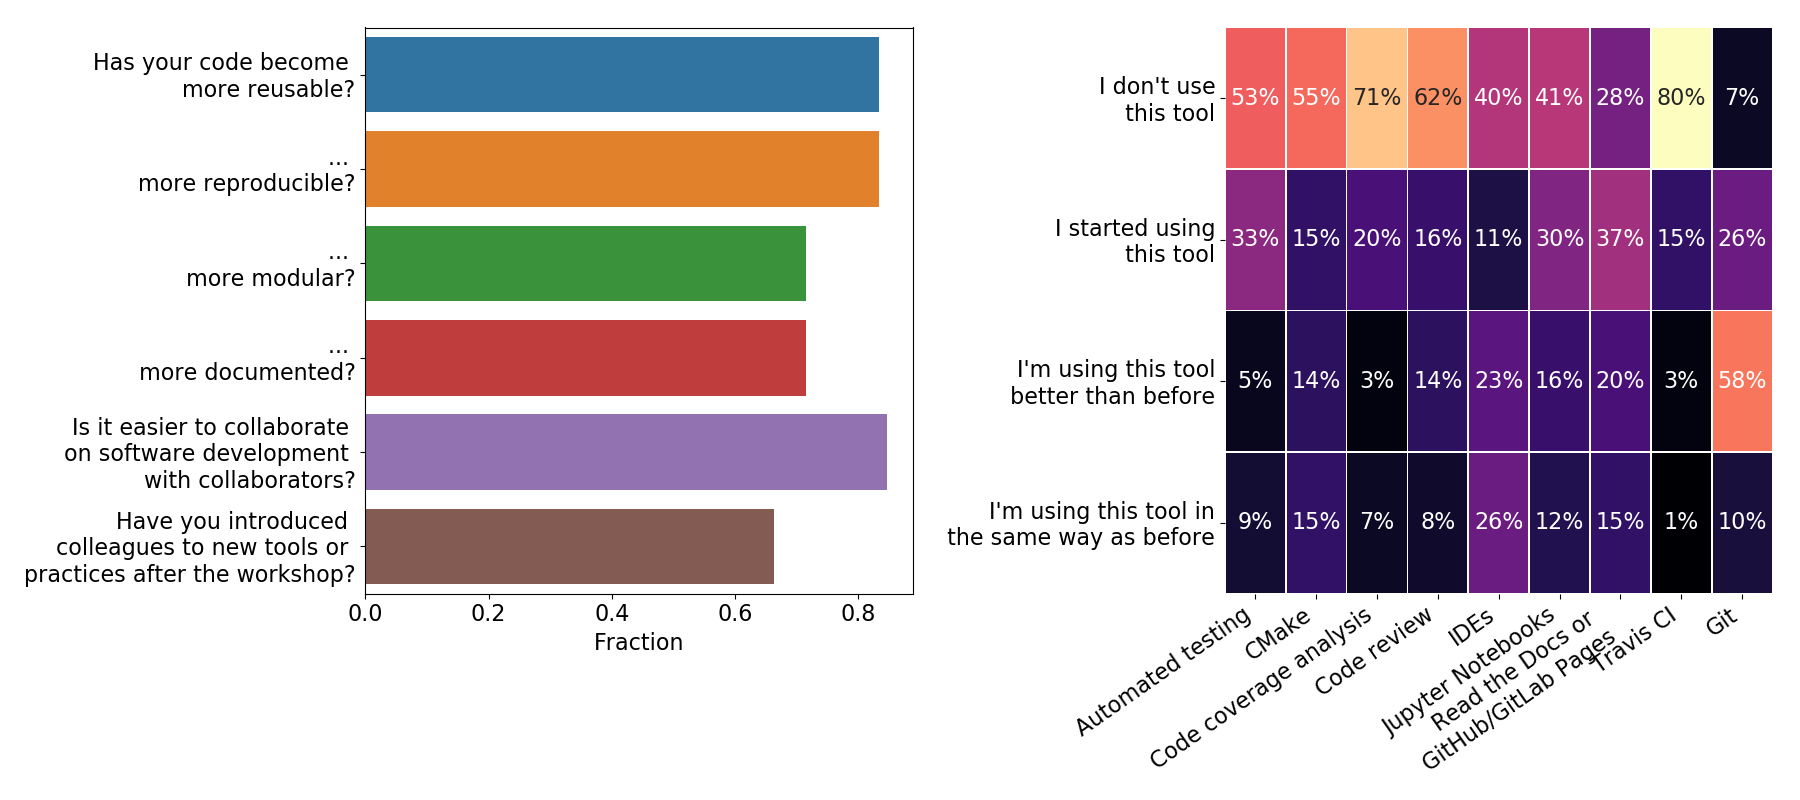
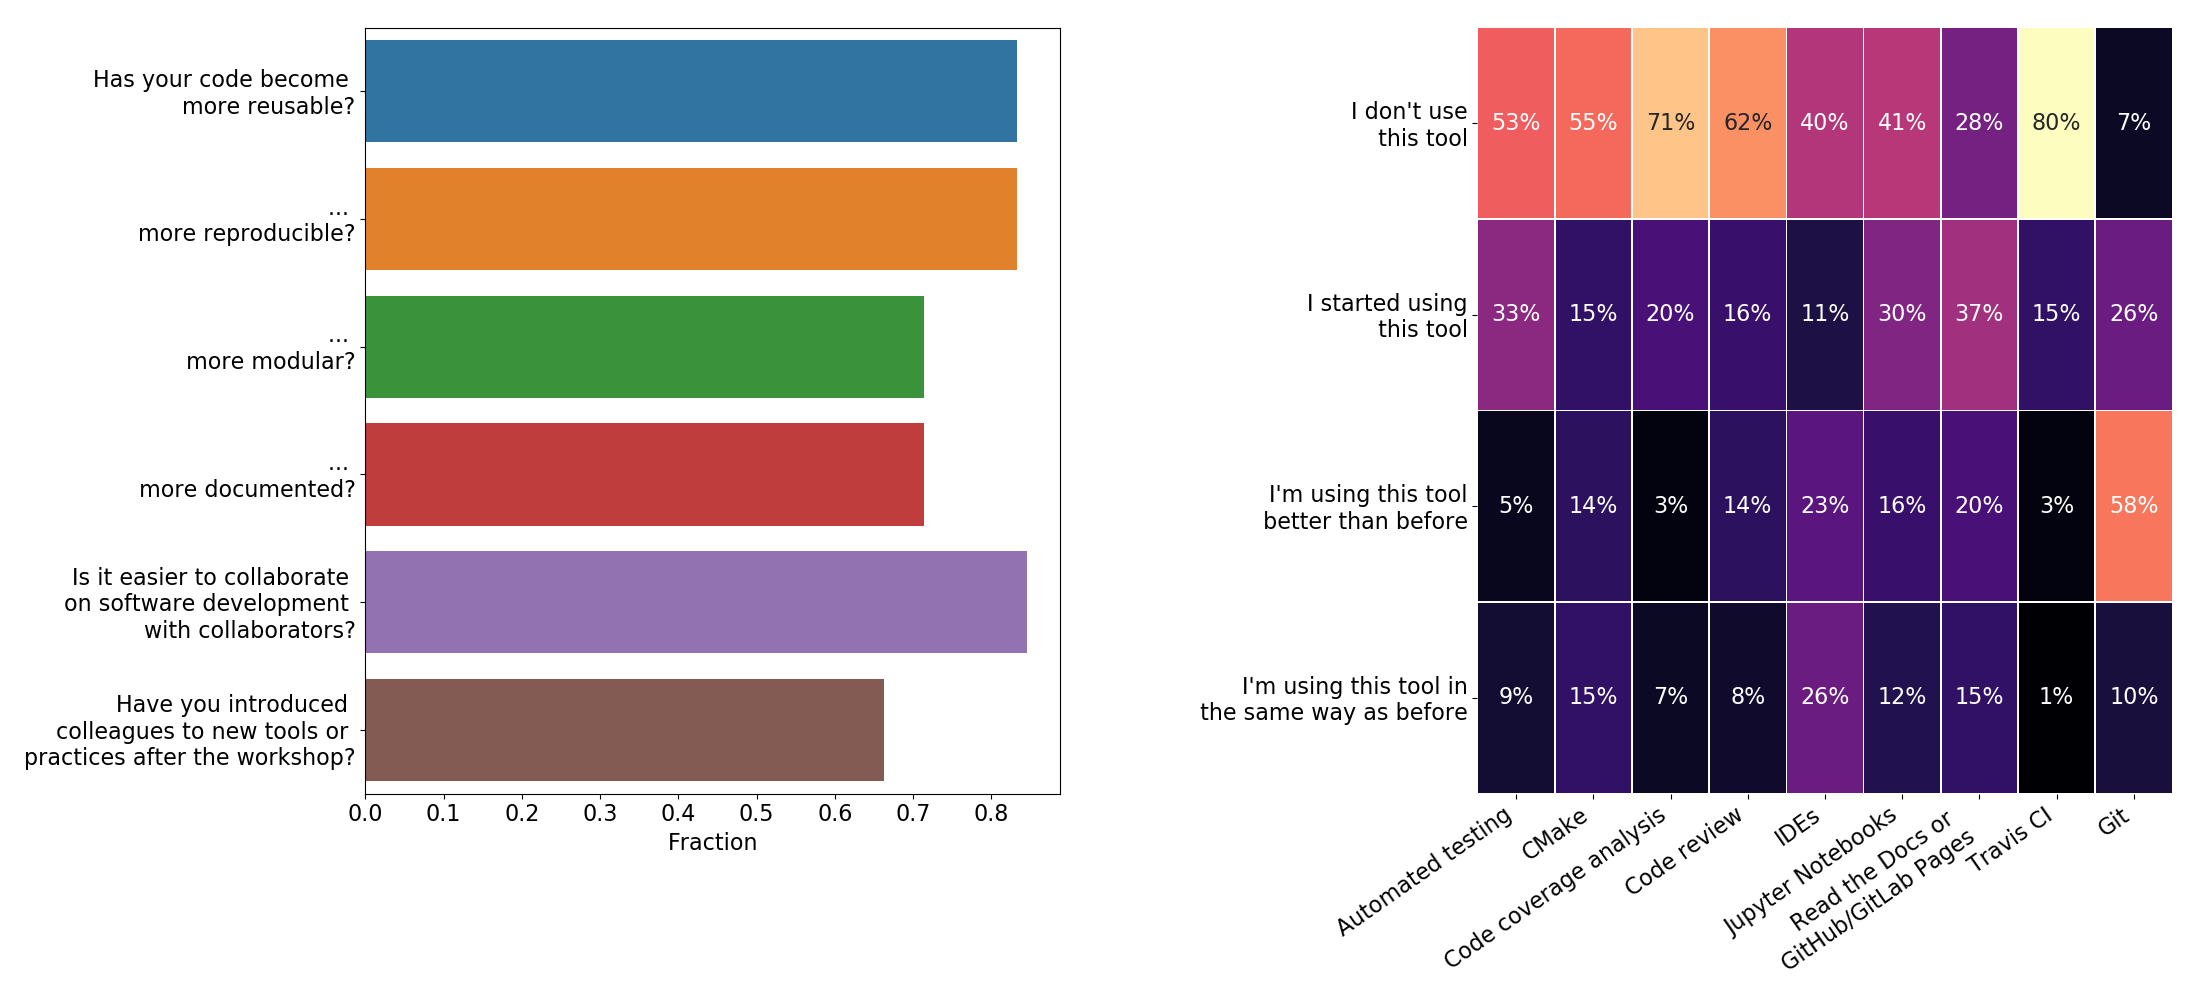
modify main page layout for nicer appearance

Changed region(s): [[0.5289, 0.0, 0.9956, 0.9688], [0.0, 0.0312, 0.4978, 0.875], [0.4667, 0.75, 0.4978, 0.7812]]

diff --git a/_includes/index.html b/_includes/index.html
@@ -51,6 +51,21 @@
 		</div>
 	    </div>
 
+        </div>
+
+
+
+        <div class="col-sm-4">
+            <a class="twitter-timeline" data-height="750" href="https://twitter.com/coderefine">Tweets by coderefine</a> <script async src="//platform.twitter.com/widgets.js" charset="utf-8"></script>
+            <script>!function(d,s,id){var js,fjs=d.getElementsByTagName(s)[0],p=/^http:/.test(d.location)?'http':'https';if(!d.getElementById(id)){js=d.createElement(s);js.id=id;js.src=p+"://platform.twitter.com/widgets.js";fjs.parentNode.insertBefore(js,fjs);}}(document,"script","twitter-wjs");</script>
+        </div>
+    </div>
+</div>
+
+
+
+<div class="container">
+
             <div class="row">
                 <div class="col-sm-12">
                     <h3 class="text-center top-space">Our participants</h3>
@@ -63,10 +78,11 @@
                 </div>
 		<div class="row">
                   <div class="col-sm-40">
-                    <img src="assets/img/disciplines_positions.png" alt="Disciplines and positions" style="float:right; width:800px">
+                    <img src="assets/img/disciplines_positions.png" alt="Disciplines and positions" style="float:center; width:1200px">
                   </div>
 		</div>
             </div>
+
 
             <div class="row">
                 <div class="col-sm-12">
@@ -78,31 +94,17 @@
                       how former participants use various software development tools after attending
                       a workshop (left), and how their code and collaboration with colleagues has
                       changed (right).  These results are based on 92 survey responses obtained to
-                      date -- 49% of which are graduate students, 18% postdocs, 14% researchers, 8%
-                      assistant/associate/full professors and 9% other occupations (e.g staff
-                      scientists, scientific programmers).
+                      date.
                     </p>
                 </div>
             </div>
             <div class="row">
-                <div class="col-sm-40">
-                      <img src="assets/img/heatmap_yesno.png" alt="Post-workshop survey" style="float:right; width:800px">
+                <div class="col-sm-12">
+                      <img src="assets/img/heatmap_yesno.png" alt="Post-workshop survey" style="float:center; width:1000px">
                 </div>
             </div>
-        </div>
 
 
-
-        <div class="col-sm-4">
-            <a class="twitter-timeline" data-height="1000" href="https://twitter.com/coderefine">Tweets by coderefine</a> <script async src="//platform.twitter.com/widgets.js" charset="utf-8"></script>
-            <script>!function(d,s,id){var js,fjs=d.getElementsByTagName(s)[0],p=/^http:/.test(d.location)?'http':'https';if(!d.getElementById(id)){js=d.createElement(s);js.id=id;js.src=p+"://platform.twitter.com/widgets.js";fjs.parentNode.insertBefore(js,fjs);}}(document,"script","twitter-wjs");</script>
-        </div>
-    </div>
-</div>
-
-
-
-<div class="container">
   <div class="row">
     <div class="col-sm-12">
       <h3 class="text-center top-space">What do our participants say after attending a workshop?</h3>
